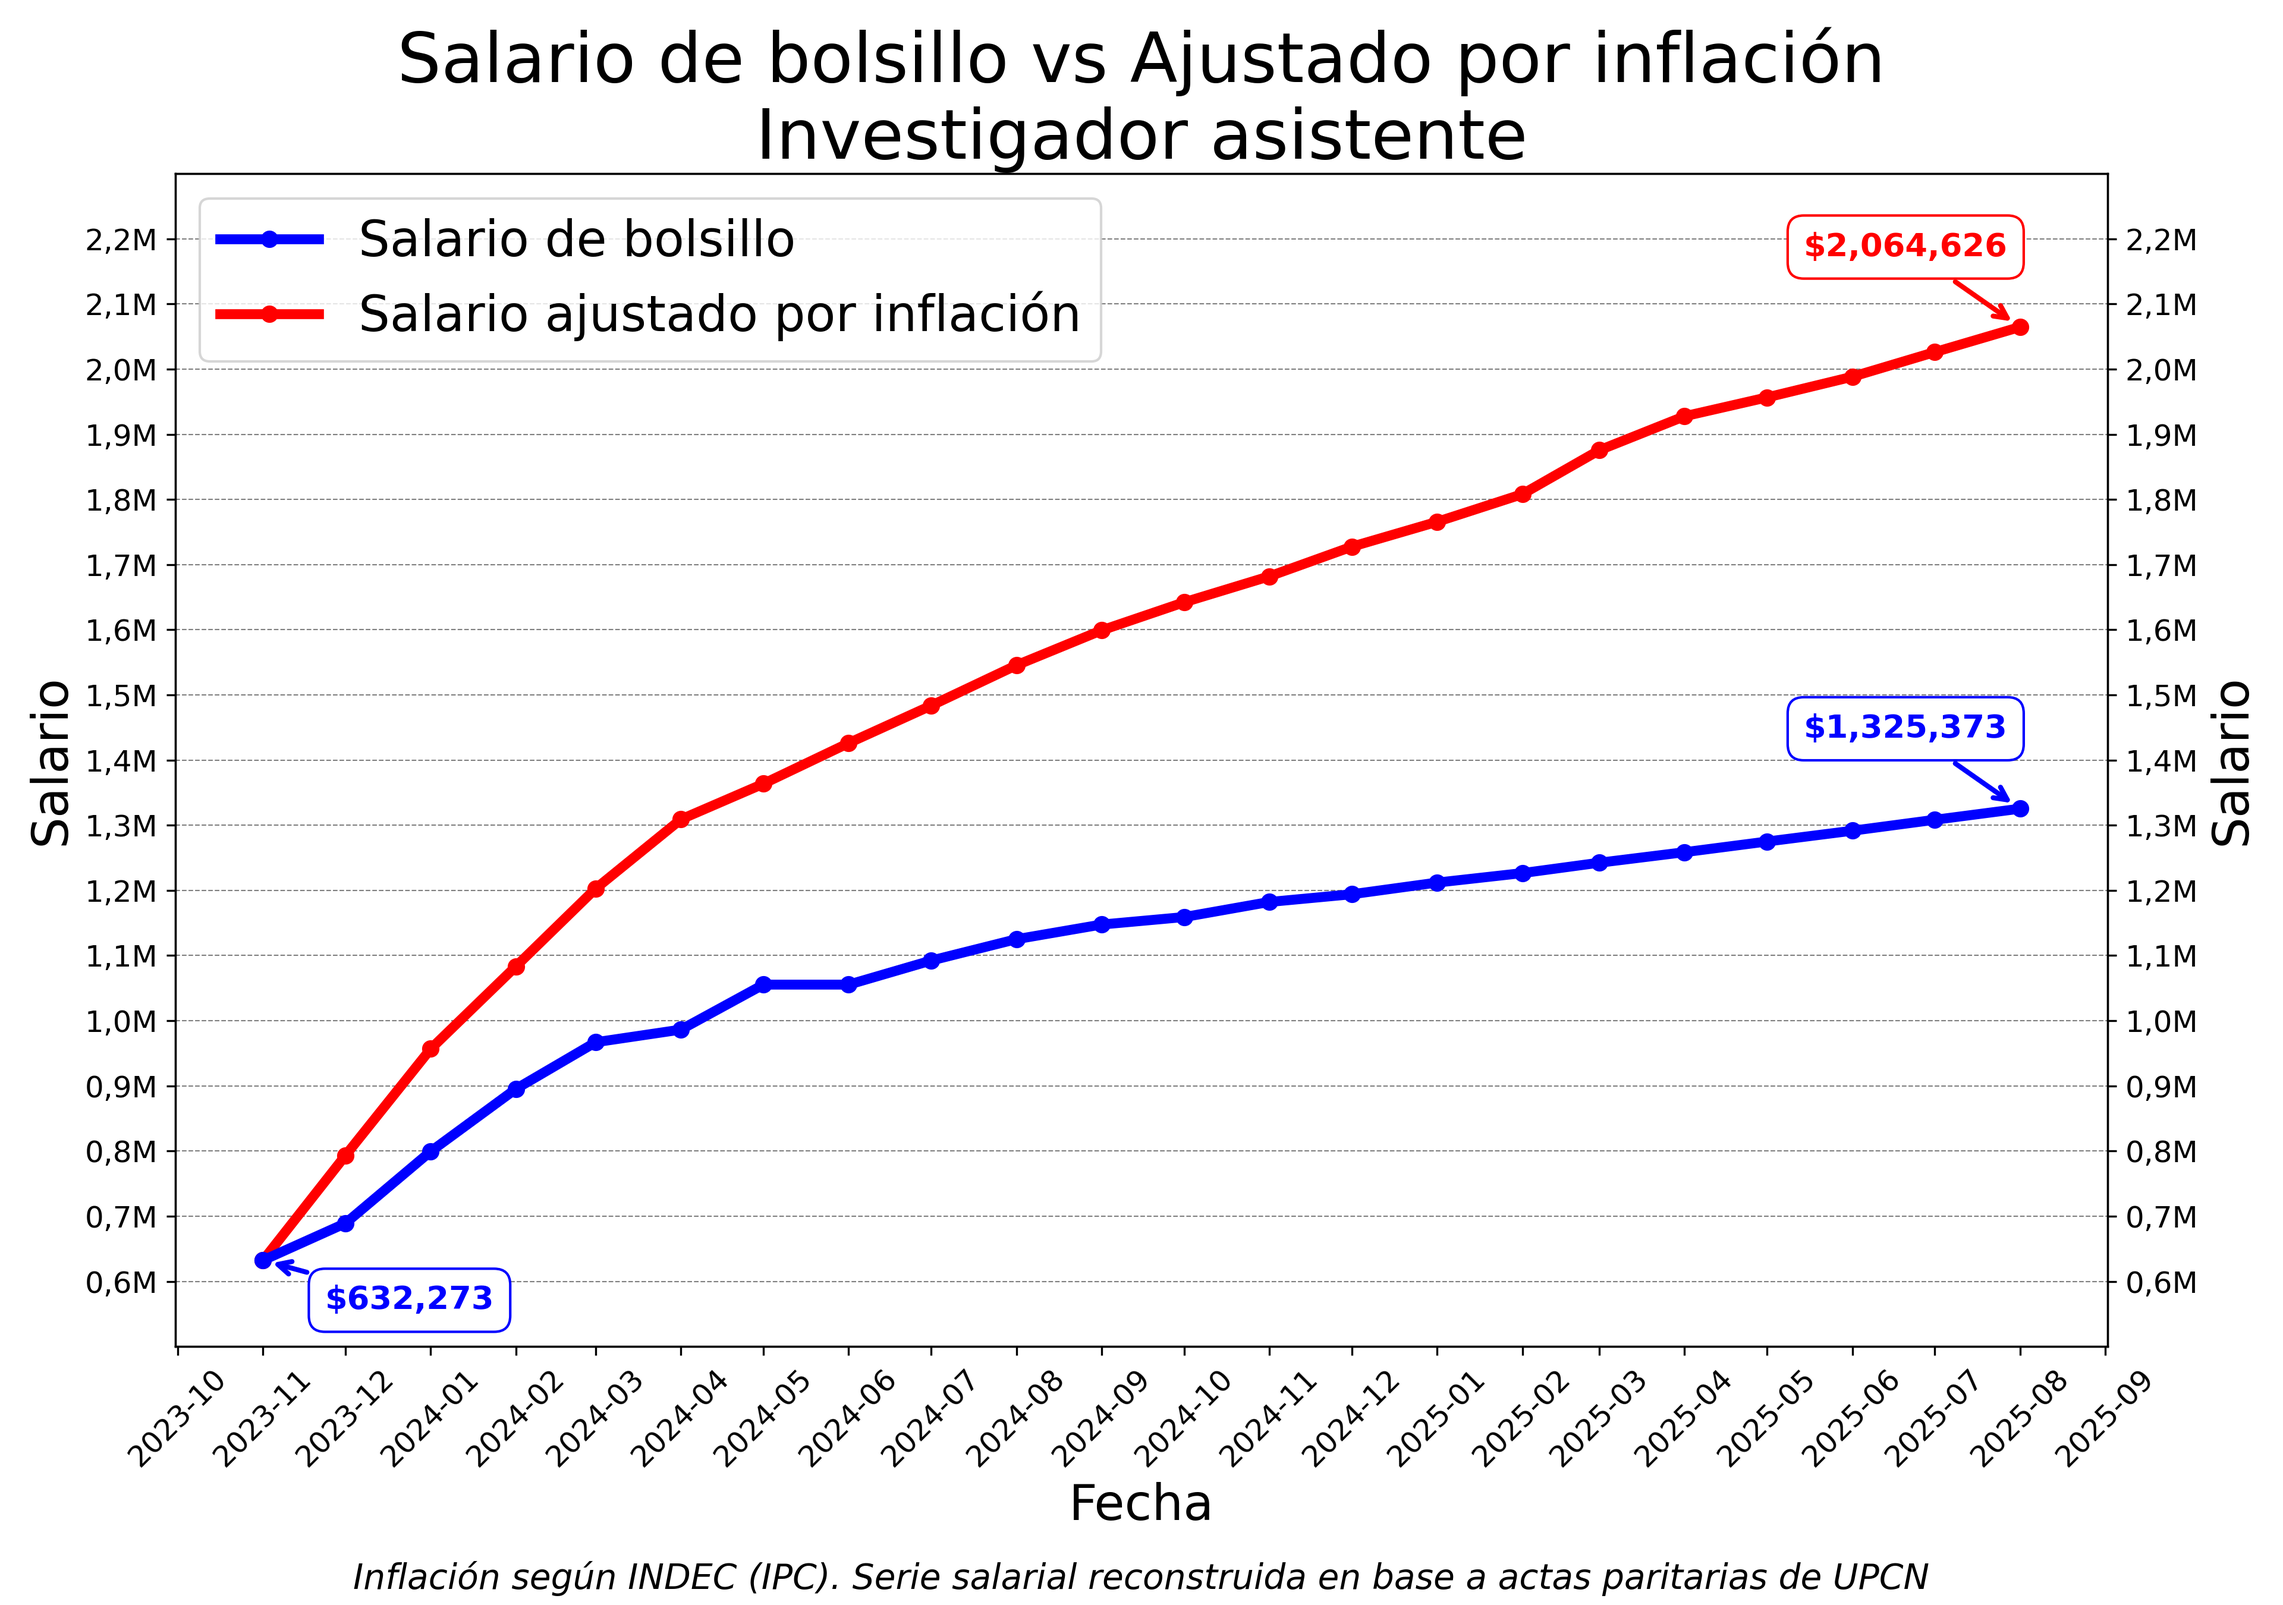
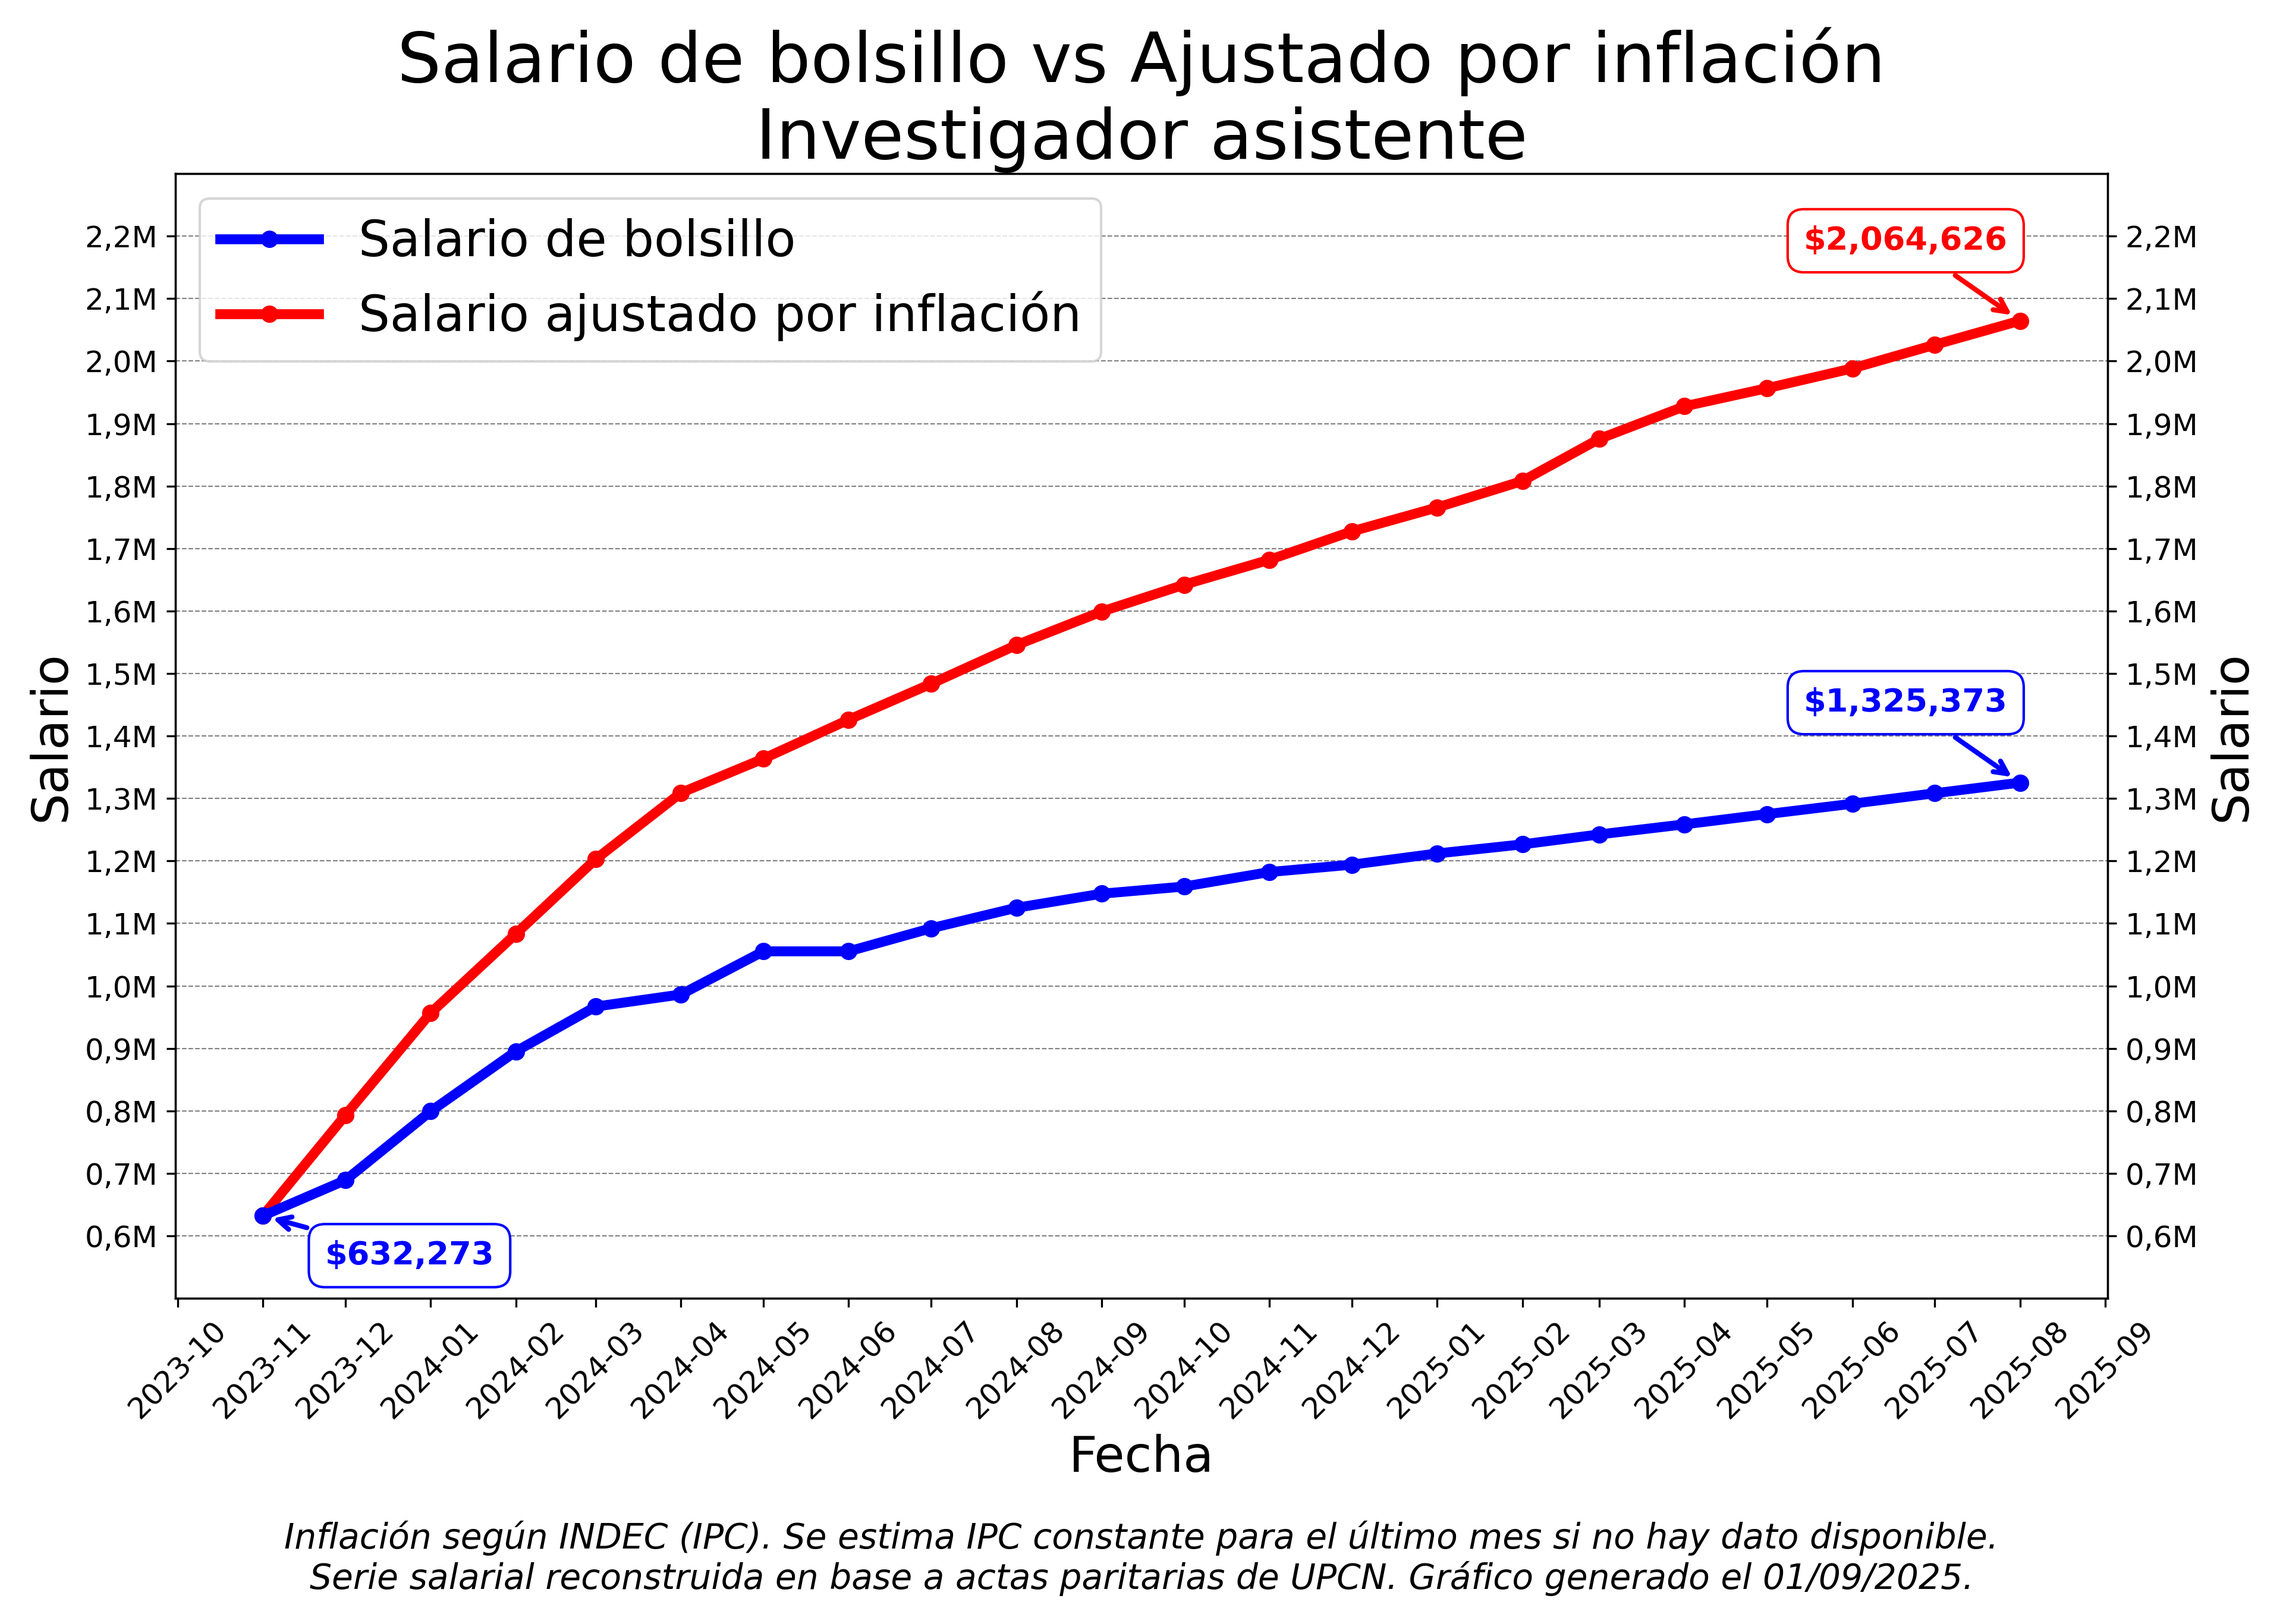
actualizo agosto

diff --git a/graf_cic.py b/graf_cic.py
@@ -5,6 +5,12 @@ import numpy as np
 from adjustText import adjust_text
 
 
+
+# Add generation date to first two plots
+current_date = pd.Timestamp.now().strftime("%d/%m/%Y")
+footnote_text = f"Inflación según INDEC (IPC). Se estima IPC constante para el último mes si no hay dato disponible.\nSerie reconstruida en base a actas paritarias de UPCN. Gráfico generado el {current_date}."
+
+
 # Leer el archivo CSV
 df = pd.read_csv("datos/cic.csv", parse_dates=["fecha"])
 
@@ -54,11 +60,11 @@ ax.set_xlabel("Fecha", fontsize=20)
 ax.set_ylabel("Salario real (millones)", fontsize=20)
 ax.legend(fontsize=20)
 
-plt.figtext(0.5, 0.01, "Serie reconstruida en base a actas paritarias de UPCN",
+plt.figtext(0.5, 0.01, footnote_text,
             ha="center", fontsize=14, style='italic')
 
 # Ajustar diseño y guardar
-plt.tight_layout(rect=[0, 0.03, 1, 1])
+plt.tight_layout(rect=[0, 0.06, 1, 1])  # Increased bottom margin
 plt.savefig("plots/grafico_salarios_CIC.png")
 plt.close()
 
@@ -97,18 +103,19 @@ for y in yticks2:
 # Ejes
 ax2.xaxis.set_major_formatter(mdates.DateFormatter('%Y-%m'))
 ax2.xaxis.set_major_locator(mdates.YearLocator())
-ax2.set_title("Salario real ajustado por inflación\nBase 100 = diciembre de 2015", fontsize=28)
+ax2.set_title("Salario de bolsillo ajustado por inflación\nBase 100 = diciembre de 2015", fontsize=28)
 ax2.set_xlabel("Fecha", fontsize=20)
-ax2.set_ylabel("Salario real (base 100)", fontsize=20)
+ax2.set_ylabel("Salario (base 100)", fontsize=20)
 ax2.legend(fontsize=18)
 plt.xticks(rotation=45)
 
 # Comentario
-plt.figtext(0.5, 0.01, "Serie reconstruida en base a actas paritarias de UPCN",
+plt.figtext(0.5, 0.01, footnote_text,
             ha="center", fontsize=14, style='italic')
 
+
 # Guardar
-plt.tight_layout(rect=[0, 0.03, 1, 1])
+plt.tight_layout(rect=[0, 0.06, 1, 1])  # Increased bottom margin from 0.03 to 0.06
 plt.savefig("plots/grafico_indice_base_100.png")
 plt.close()
 
@@ -228,12 +235,15 @@ def plot_nominal_vs_adjusted(csv_file, title_prefix,subtitle, output_filename, f
     ax.legend(fontsize=20, loc='upper left')
     
     # Footnote
+    # Footnote with generation date
     if footnote is None:
-        footnote = "Serie reconstruida en base a actas paritarias de UPCN"
+        footnote = f"Inflación según INDEC (IPC). Se estima IPC constante para el último mes si no hay dato disponible.\nSerie reconstruida en base a actas paritarias de UPCN. Gráfico generado el {current_date}"
+    else:
+        footnote = f"{footnote}. Gráfico generado el {current_date}."
     plt.figtext(0.5, 0.01, footnote, ha="center", fontsize=14, style='italic')
     
     # Save plot
-    plt.tight_layout(rect=[0, 0.03, 1, 1])
+    plt.tight_layout(rect=[0, 0.06, 1, 1])  # Increased bottom margin
     #Add "plots/" to output_filename
     output_filename = "plots/" + output_filename
     plt.savefig(output_filename)
@@ -245,7 +255,7 @@ plot_nominal_vs_adjusted(
     "Salario de bolsillo vs Ajustado por inflación",
     "Investigador asistente",
     "grafico_nominal_vs_ajustado_cic.png",
-    "Inflación según INDEC (IPC). Serie salarial reconstruida en base a actas paritarias de UPCN"
+    "Inflación según INDEC (IPC). Se estima IPC constante para el último mes si no hay dato disponible.\nSerie salarial reconstruida en base a actas paritarias de UPCN"
 )
 
 plot_nominal_vs_adjusted(
@@ -253,7 +263,7 @@ plot_nominal_vs_adjusted(
     "Salario de bolsillo vs Ajustado por inflación",
     "Beca Doctoral CONICET",
     "grafico_nominal_vs_ajustado_conicet.png",
-    "Inflación según INDEC (IPC). Serie salarial reconstruida en base a recibos de sueldo de CONICET"
+    "Inflación según INDEC (IPC). Se estima IPC constante para el último mes si no hay dato disponible.\nSerie salarial reconstruida en base a recibos de sueldo de CONICET"
 )
 
 plot_nominal_vs_adjusted(
@@ -261,7 +271,7 @@ plot_nominal_vs_adjusted(
     "Salario de bolsillo vs Ajustado por inflación",
     "Beca Doctoral FONCyT",
     "grafico_nominal_vs_ajustado_foncyt.png",
-    "Inflación según INDEC (IPC). Serie salarial reconstruida en base a recibos de sueldo de FONCyT"
+    "Inflación según INDEC (IPC). Se estima IPC constante para el último mes si no hay dato disponible.\nSerie salarial reconstruida en base a recibos de sueldo de FONCyT"
 )
 
 plot_nominal_vs_adjusted(
@@ -269,7 +279,7 @@ plot_nominal_vs_adjusted(
     "Salario de bolsillo vs Ajustado por inflación",
     "Profesor Asistente Dedicación Exclusiva (UNC)",
     "grafico_nominal_vs_ajustado_profasis.png",
-    "Inflación según INDEC (IPC). Serie salarial reconstruida en base a recibos de sueldo de UNC"
+    "Inflación según INDEC (IPC). Se estima IPC constante para el último mes si no hay dato disponible.\nSerie salarial reconstruida en base a recibos de sueldo de UNC"
 )
 
 
